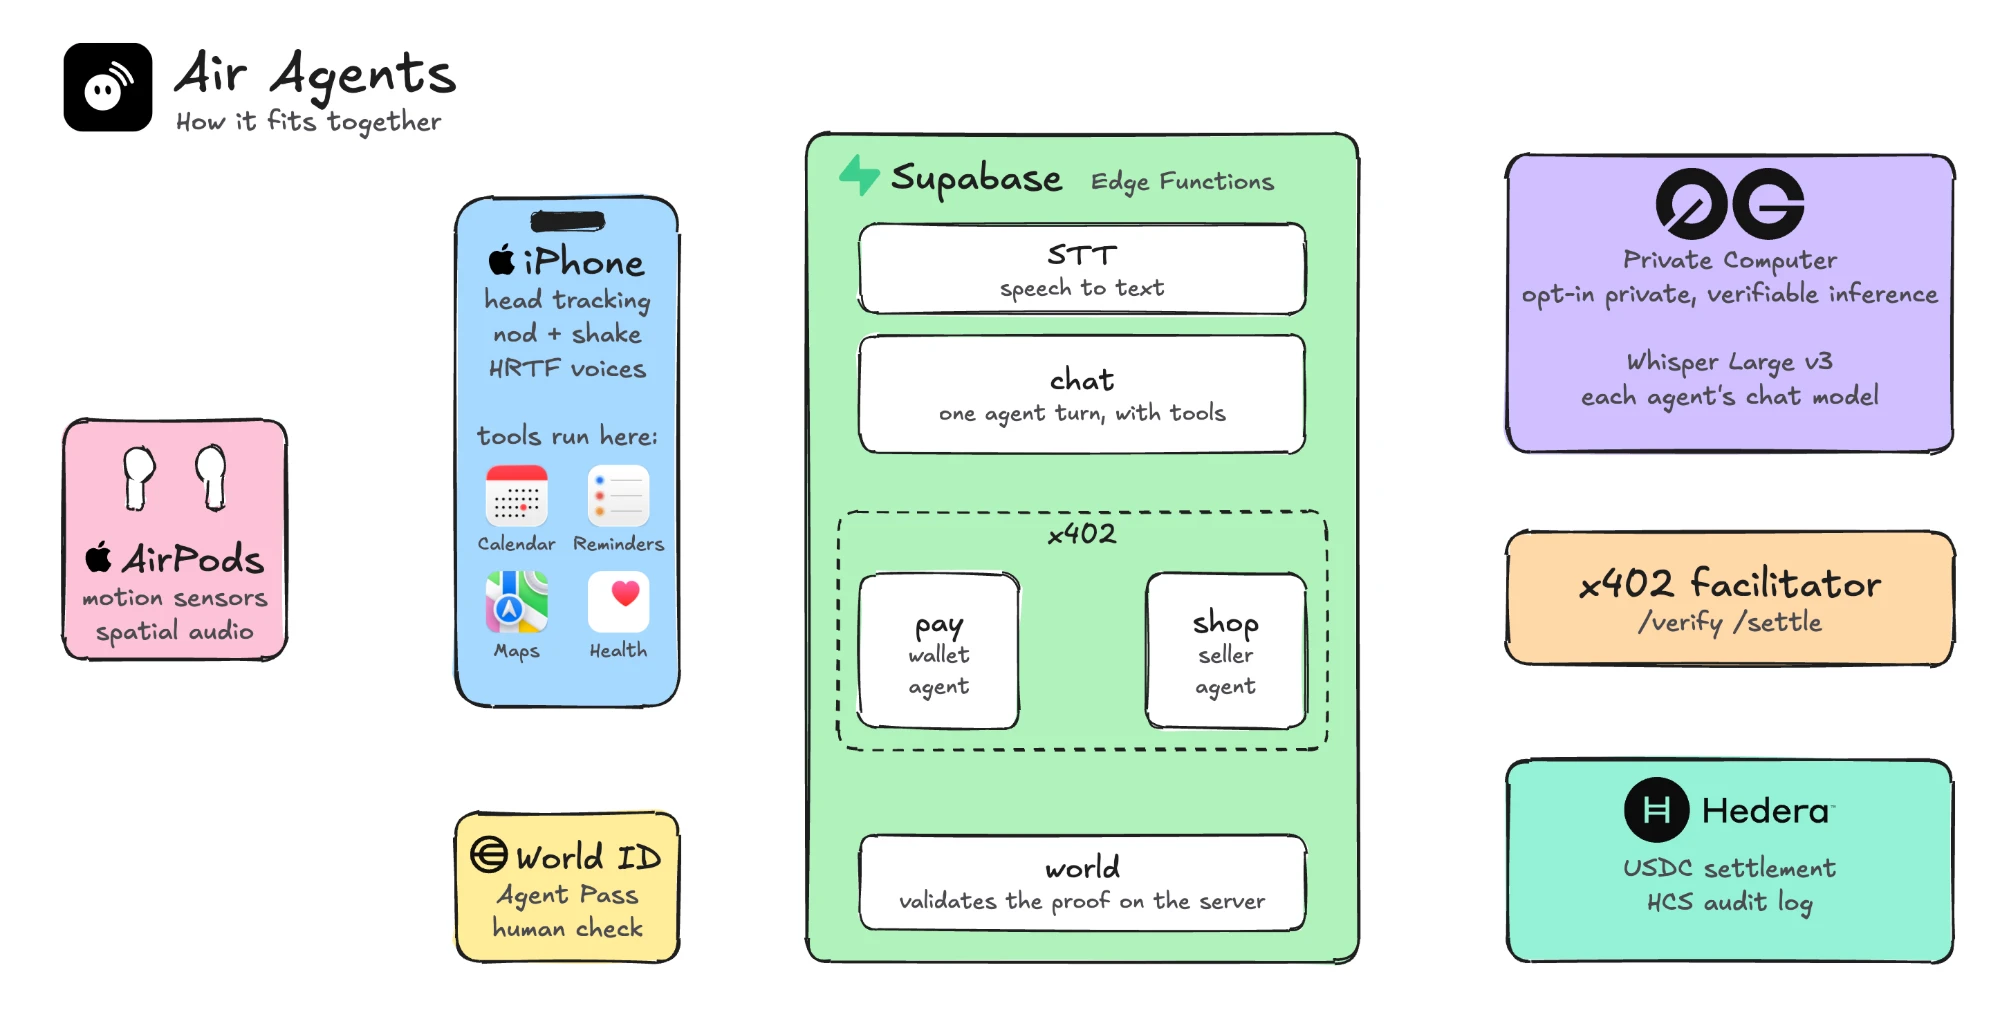
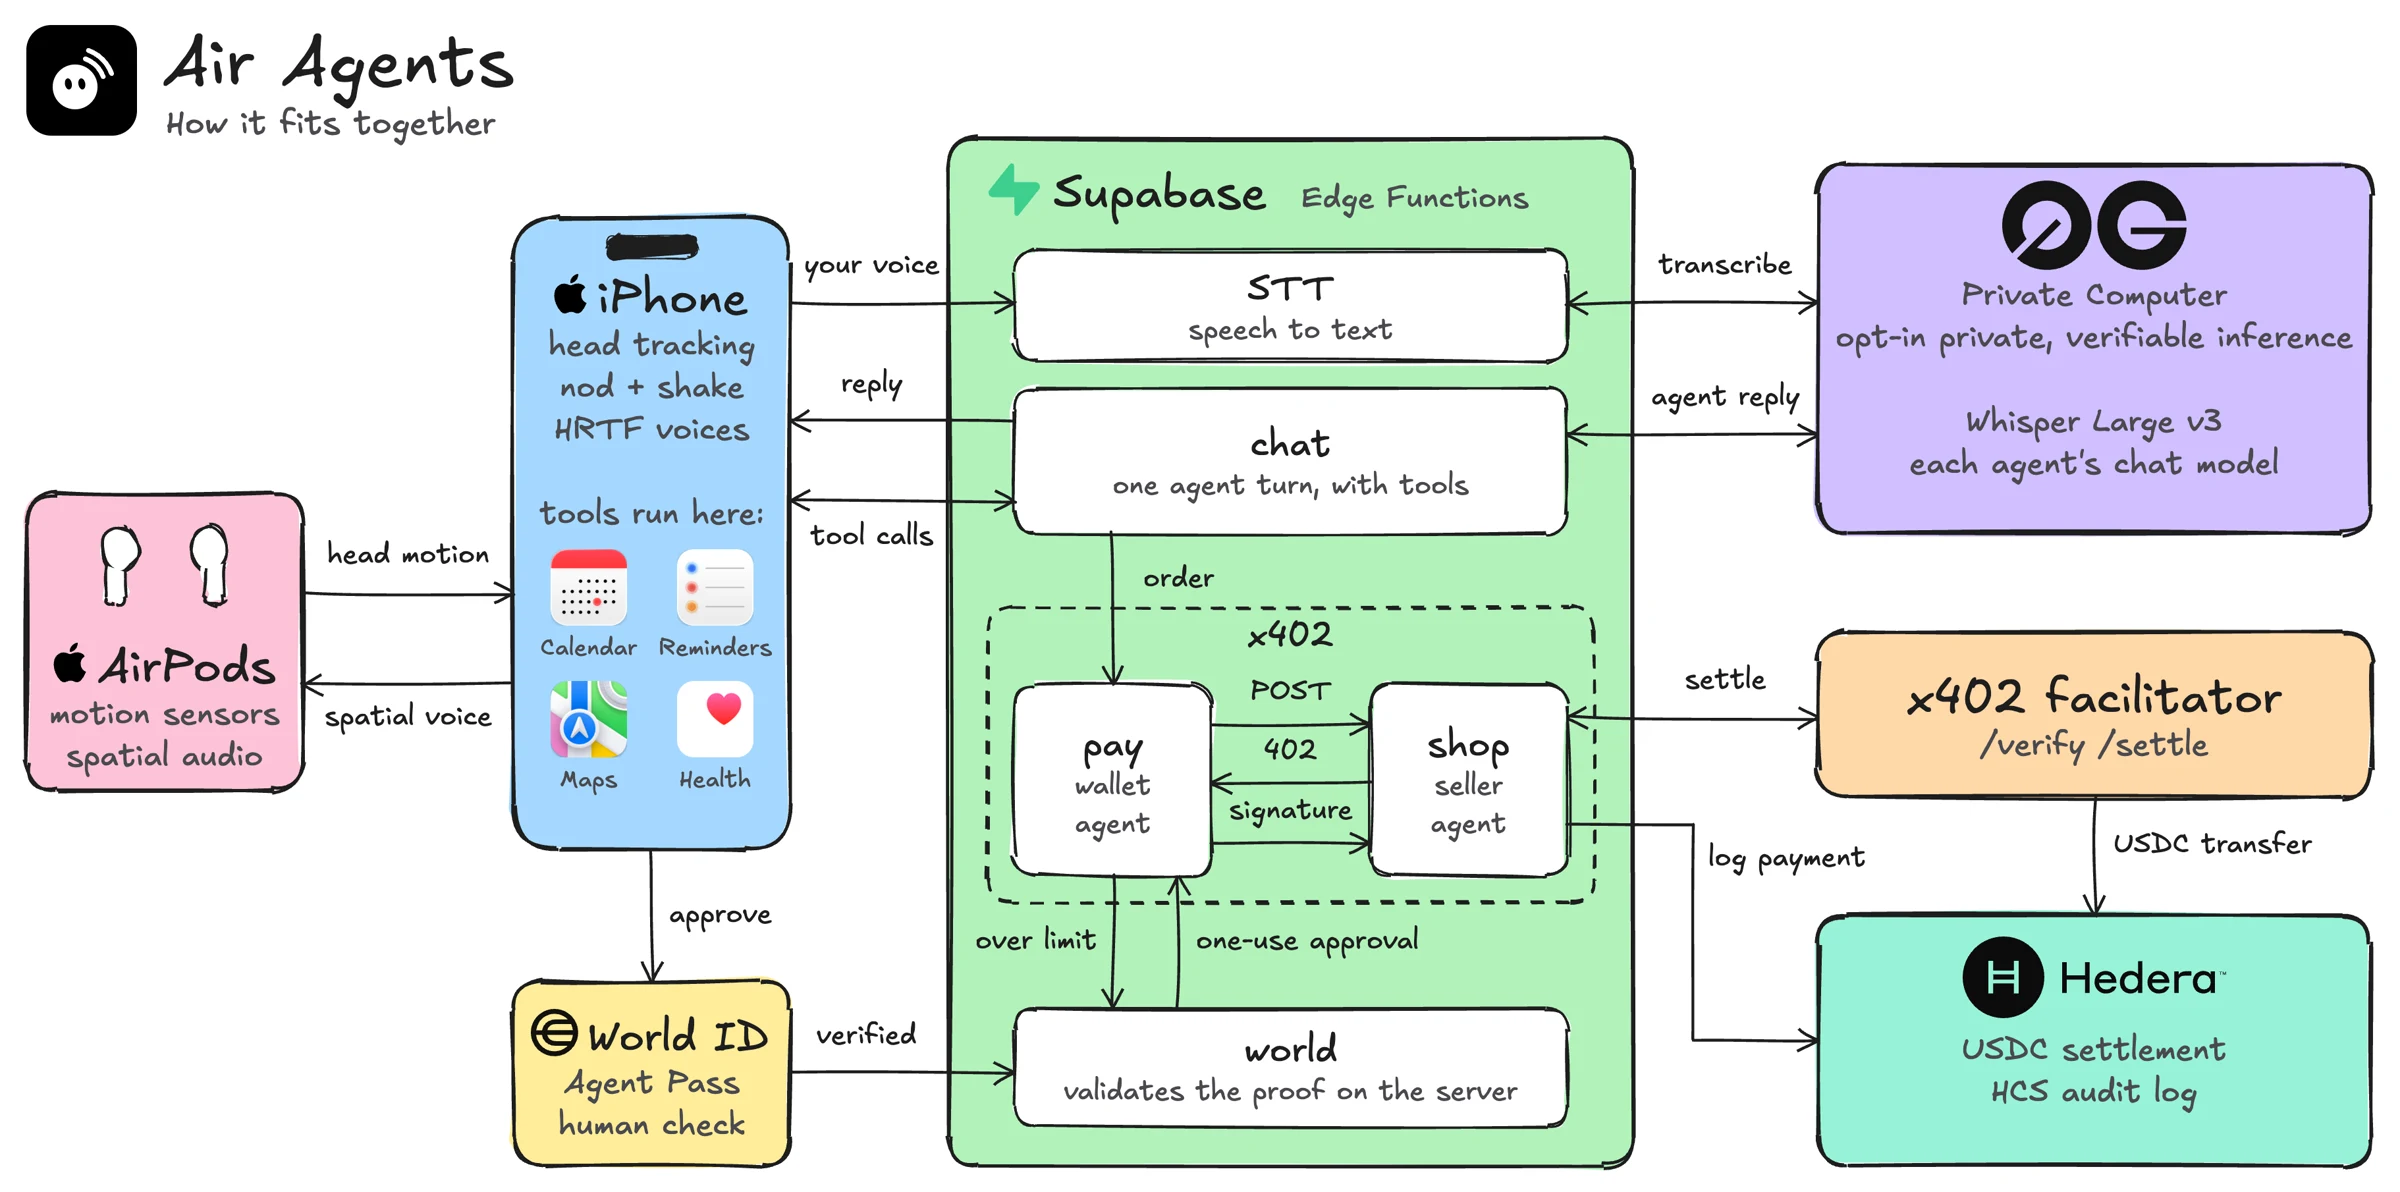
README: simpler, with app screenshots and the full architecture diagram

Changed region(s): [[0.0, 0.0913, 0.992, 1.0], [0.0, 0.0, 0.248, 0.1521]]

diff --git a/README.md b/README.md
@@ -1,11 +1,16 @@
 # Air Agents
 
-Your AI agents sit in the space around you. Look at one, nod, and talk. It replies from where it sits.
+Your AI agents sit in the space around you. Turn to one, double nod, and talk. It replies from where it sits.
 
-There are two parts:
+[Website](https://air-agents.vercel.app/) · [Demo video](https://youtu.be/QWUU-ps2pFI)
 
-- **iPhone app:** personal agents that travel with you, and agents placed in the real world for you or anyone nearby to find.
-- **Landing page:** the site in `web/`.
+## Screenshots
+
+| Explore | With me | Conversation |
+|:---:|:---:|:---:|
+| <img src="screenshots/explore.webp" width="240" alt="Explore: agents nearby, with their distance"> | <img src="screenshots/with-me.webp" width="240" alt="With me: personal agents on your left and right"> | <img src="screenshots/talk.webp" width="240" alt="A conversation with an agent"> |
+| **Find** | **Agents** | **Create** |
+| <img src="screenshots/find.webp" width="240" alt="Find: a compass guiding you to a placed agent"> | <img src="screenshots/agents.webp" width="240" alt="Your personal and placed agents"> | <img src="screenshots/create.webp" width="240" alt="Creating a new agent"> |
 
 ## Architecture
 
@@ -15,74 +20,44 @@ There are two parts:
 
 | Gesture | Meaning |
 |---|---|
-| Turn toward an agent | Select it (its ring lights up) |
-| Nod | Wake it |
-| Shake | End the conversation |
+| Turn left or right | Pick that agent (it lights up) |
+| Double nod | Wake it, or say yes |
+| Double shake | End the conversation, or say no |
 | Speak | Talk to the agent you've woken |
 
-## iPhone app
+## What it does
+
+- **With me:** personal agents travel with you, one on your left and one on your right.
+- **Placed agents:** pin an agent to a place. Private ones are yours alone; anyone nearby can find public ones. Find guides you there, then you hear it in 3D audio.
+- **Phone tools:** personal agents can use Calendar, Reminders, Health (read only), Maps, Weather, and alarms and timers. Tools run on the iPhone and are switched per agent.
+- **Private inference:** an agent can opt in to 0G's private tier, sealed in a TEE, with a smaller set of TeeML models. If its model is unavailable, the turn fails rather than dropping to a lower tier. This covers the model and speech to text, not `tts`.
+- **Shops:** a public agent can sell from a menu. Say "I'll have a cappuccino" and your wallet agent pays in USDC over x402 on Hedera. Above your limit ($5 a purchase, $20 a day by default) the purchase waits for a World ID human check. Every payment is logged to an HCS topic.
+
+## Run it
 
 Needs iOS 26, Xcode and AirPods with head tracking. Open `iOS/AgentsphereMobile.xcodeproj` and run the **Agentsphere** scheme on a device. `iOS/project.yml` is the XcodeGen source.
 
-- **With me:** personal agents travel with you, one on your left and one on your right. Look at one, nod to wake it, and talk hands-free. Shake to end.
-- **Placed agents:** pin an agent to a place. Private ones are yours alone; public ones can be discovered by anyone nearby. Find guides you there, then you hear it in 3D audio.
-- **Phone tools:** personal agents can use Calendar, Reminders, Health (read only), Maps, Weather, and alarms and timers. Tools run on the iPhone and are switched per agent.
-- **Create:** start from a template, then choose a voice, a model, and a look from 8 colours and 5 shapes.
-
-The backend is in `supabase/functions`: `chat` (0G Compute Router), `stt` (Whisper Large v3 on 0G) and `tts` (ElevenLabs).
-
-Each agent can opt in to **private inference**. Its model then runs on 0G's private tier, sealed in a TEE,
-and the model picker shows only TeeML models. With it off, the agent keeps the full catalogue. A private
-agent has no fallback: if its model is unavailable, the turn fails rather than dropping to a lower tier.
-This covers the model and speech to text. A reply is still sent to `tts` to be spoken.
-
-Test the routing with `deno test supabase/functions/chat/routing_test.ts`.
-
-## Landing page
-
-Vite, React and Tailwind, styled from the iPhone app's design language (`iOS/App/Design.swift`).
+Test the model routing:
 
 ```bash
-cd web
-pnpm install
-pnpm dev
+deno test supabase/functions/chat/routing_test.ts
 ```
 
-`pnpm build` typechecks and builds to `web/dist`.
+## Backend
 
-The turning AirPods are frames in `web/public/airpods/`, rendered from a USDZ model that isn't in this repo:
+Supabase Edge Functions in `supabase/functions`:
 
-```bash
-swift scripts/render-airpods.swift <model.usdz> web/public/airpods 25 800
-```
+| Function | What it does |
+|---|---|
+| `stt` | Speech to text with Whisper Large v3 on 0G |
+| `chat` | One agent turn through the 0G Compute Router |
+| `tts` | Agent voices with ElevenLabs |
+| `pay` | The visitor's wallet agent: pays within limits, otherwise asks for a World ID check |
+| `shop` | The x402 seller: answers `402`, then verifies and settles through the facilitator and logs to HCS |
+| `merchant` | Saves the menu and creates the shop's wallet |
+| `world` | Validates the World ID proof on the server |
 
-Those frames are derived from an Apple Inc. model and aren't covered by this repo's MIT license.
-
-## Paying shop agents: x402 on Hedera
-
-Public agents placed in the world can run a shop. Their owner adds a menu in Create; the agent gets
-its own Hedera wallet. A visitor walks up, nods, and says "I'll have a cappuccino". The agent
-confirms out loud, and the visitor's **wallet agent** pays it in USDC over **x402** with no human
-approving. Above the visitor's limit ($5 a purchase, $20 a day by default) the purchase waits for a
-**World ID** human checkpoint instead. Every payment is also written to an **HCS topic** as an audit log.
-
-```
- iPhone (voice)          chat (edge fn)            pay (buyer's wallet agent)        shop (x402 seller)          facilitator
- "one cappuccino" ───▶  0G router (Claude) ──▶  checks limits / budget ──POST──▶  402 PAYMENT-REQUIRED
-                        hidden [[order]] line    signs USDC transfer ─────POST──▶  PAYMENT-SIGNATURE ──verify/settle──▶ Hedera
- order card + voice ◀── {order: paid, tx} ◀──── receipt ◀─────────────────────── 200 PAYMENT-RESPONSE      HCS audit log
-```
-
-| Piece | File | What it does |
-|---|---|---|
-| x402 seller | `supabase/functions/shop` | `POST /shop/<agent>/order` answers `402` with `PAYMENT-REQUIRED` (`exact`, `hedera:testnet`, USDC `0.0.429274`, `payTo` = the shop's account); with `PAYMENT-SIGNATURE` it verifies and settles through the facilitator, records the order and logs it to HCS |
-| Wallet agent | `supabase/functions/pay` | The visitor's custodial wallet. Builds and signs the payment transfer (fee paid by the facilitator), pays within limits, otherwise creates a 5-minute approval that a fresh World ID check must approve; an approval is used once |
-| Shops | `supabase/functions/merchant` | Saves the menu and creates the shop's wallet (ECDSA account, associated with USDC) |
-| Ordering by voice | `supabase/functions/chat` | Puts the menu in the agent's prompt; a hidden `[[order item=n qty=q]]` line is never spoken and triggers `pay` |
-| Hedera | `supabase/functions/_shared/hedera.ts` | Hiero SDK over gRPC-web (`WebClient`, since native gRPC can't connect from Supabase's runtime); wallet keys are AES-GCM encrypted at rest |
-| x402 | `supabase/functions/_shared/x402.ts` | v2 headers (base64 JSON) and facilitator `/supported`, `/verify`, `/settle` (default `https://x402.org/facilitator`) |
-
-**Proof it works (Hedera testnet):**
+## Proof on Hedera testnet
 
 - Settled payment, 0.50 USDC, buyer `0.0.11339254` → shop `0.0.11339213`:
   `0.0.9185802@1793968211.903481982` ([HashScan](https://hashscan.io/testnet/transaction/0.0.9185802-1793968211-903481982))
@@ -91,7 +66,7 @@ approving. Above the visitor's limit ($5 a purchase, $20 a day by default) the p
 - An $8 order over the $5 limit came back as `checkpoint` and nothing was paid; retrying with the
   unapproved approval was refused ("wasn't approved (pending). Nothing was paid.").
 
-**Set up your own:**
+## Set up your own shop backend
 
 1. A Hedera testnet ECDSA account from [portal.hedera.com](https://portal.hedera.com).
 2. `npx supabase secrets set HEDERA_OPERATOR_ID=0.0.x HEDERA_OPERATOR_KEY=0x… WALLET_ENC_KEY=$(openssl rand -base64 32)`
@@ -103,3 +78,7 @@ approving. Above the visitor's limit ($5 a purchase, $20 a day by default) the p
 ## AI tools
 
 Built with Claude Code.
+
+## License
+
+MIT. The AirPods frames in `web/public/airpods/` are derived from an Apple Inc. model and aren't covered by this license.
